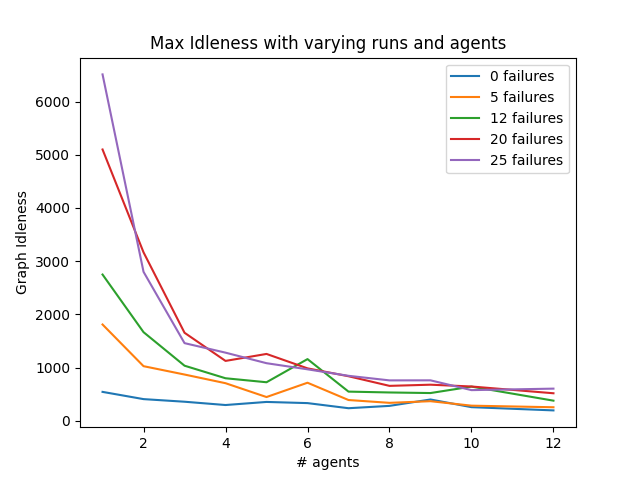
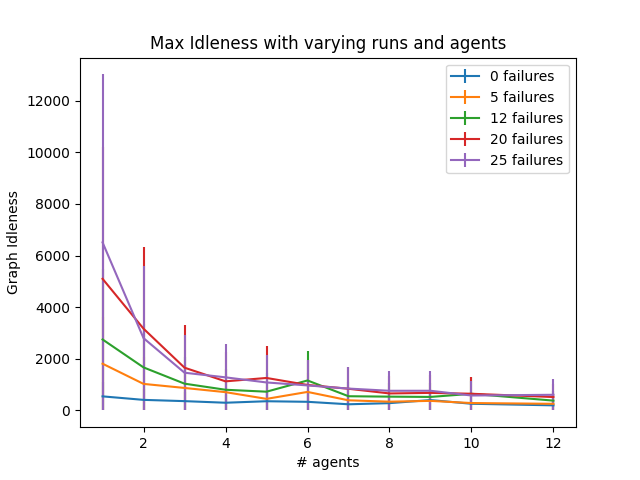
check2

diff --git a/conscientious_reactive/dual_failure_random_dead/graphsmaker/max.py b/conscientious_reactive/dual_failure_random_dead/graphsmaker/max.py
@@ -23,15 +23,15 @@ for dead in deads:
 			runs.append(np.array(pd.read_excel(pd.ExcelFile(path+'run'+str(i)+'/run.xlsx'))))
 			runs[i] = runs[i][0:][:,1:]
 			max_instantaneous_node_idleness.append(np.max(runs[i]))
-		max_graph_idlness = np.max(instantaneous_node_idleness)
+		max_graph_idlness = np.max(max_instantaneous_node_idleness)
 		avg.append(np.mean(max_graph_idlness))
 		max_all.append(np.max(max_graph_idlness))
 		min_all.append(np.min(max_graph_idlness))
 
 	# 	# std.append(np.std(graph_idlness))
 	print(avg)
-	plt.plot(cars, avg, label =str(dead)+' failures')
-	plt.errorbar(cars, avg,yerr=[max_all, min_all], capthick=1.0, label=str(dead)+" failures")
+	# plt.plot(cars, avg, label =str(dead)+' failures')
+	plt.errorbar(cars, avg,yerr=[min_all, max_all], capthick=1.0, label=str(dead)+" failures")
 	plt.draw()
 	
 
